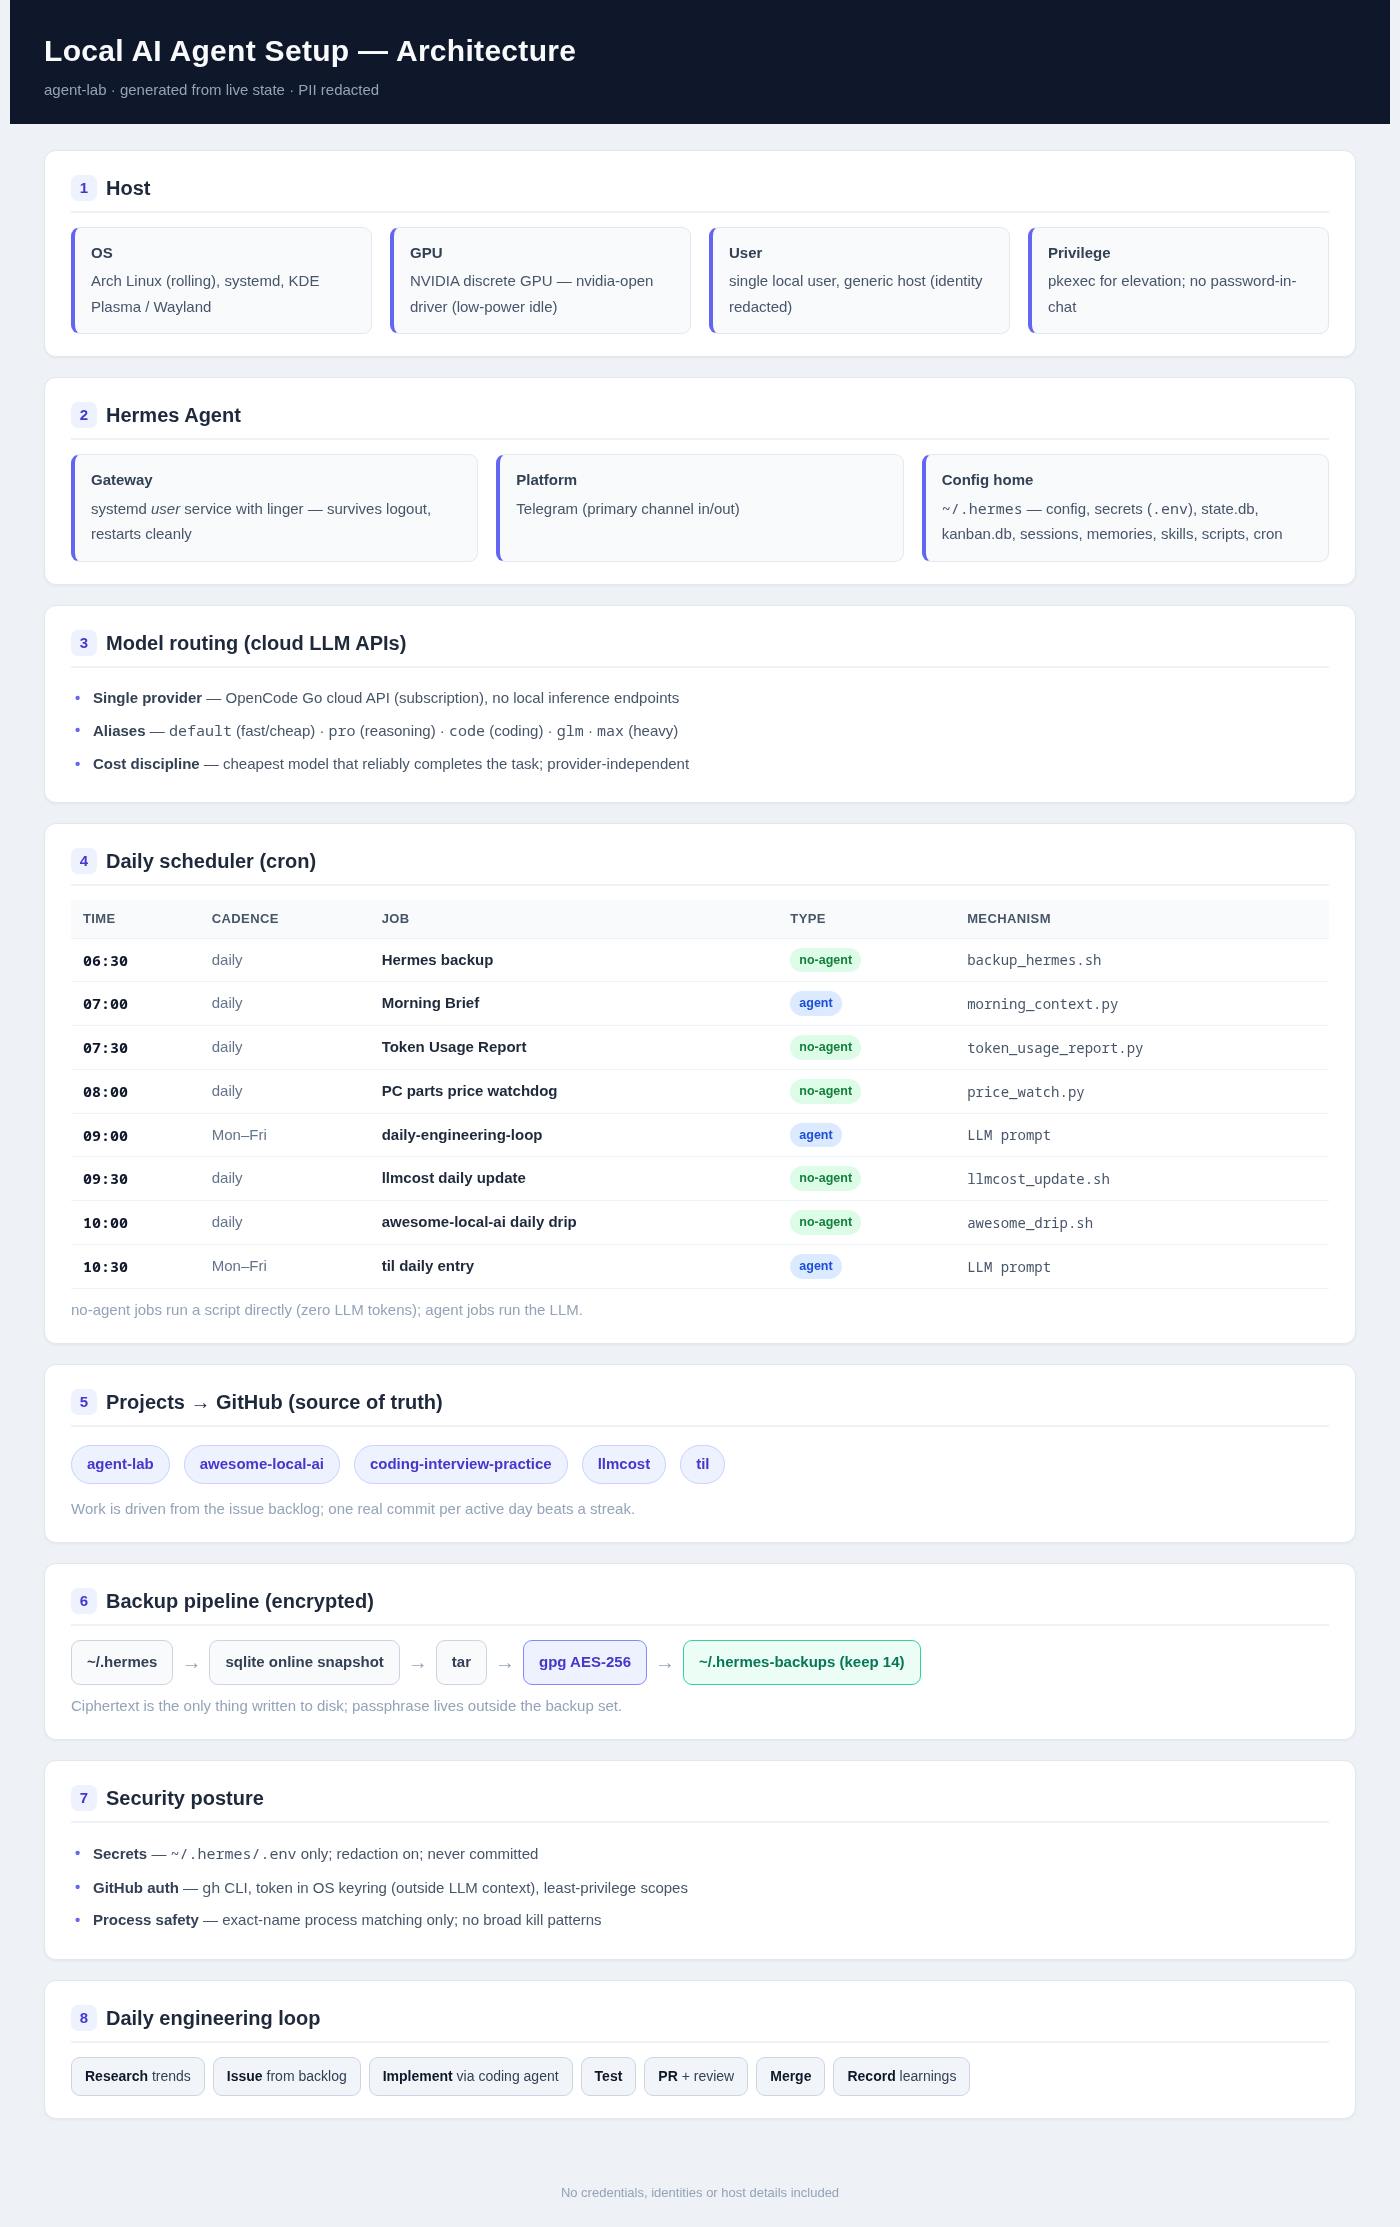
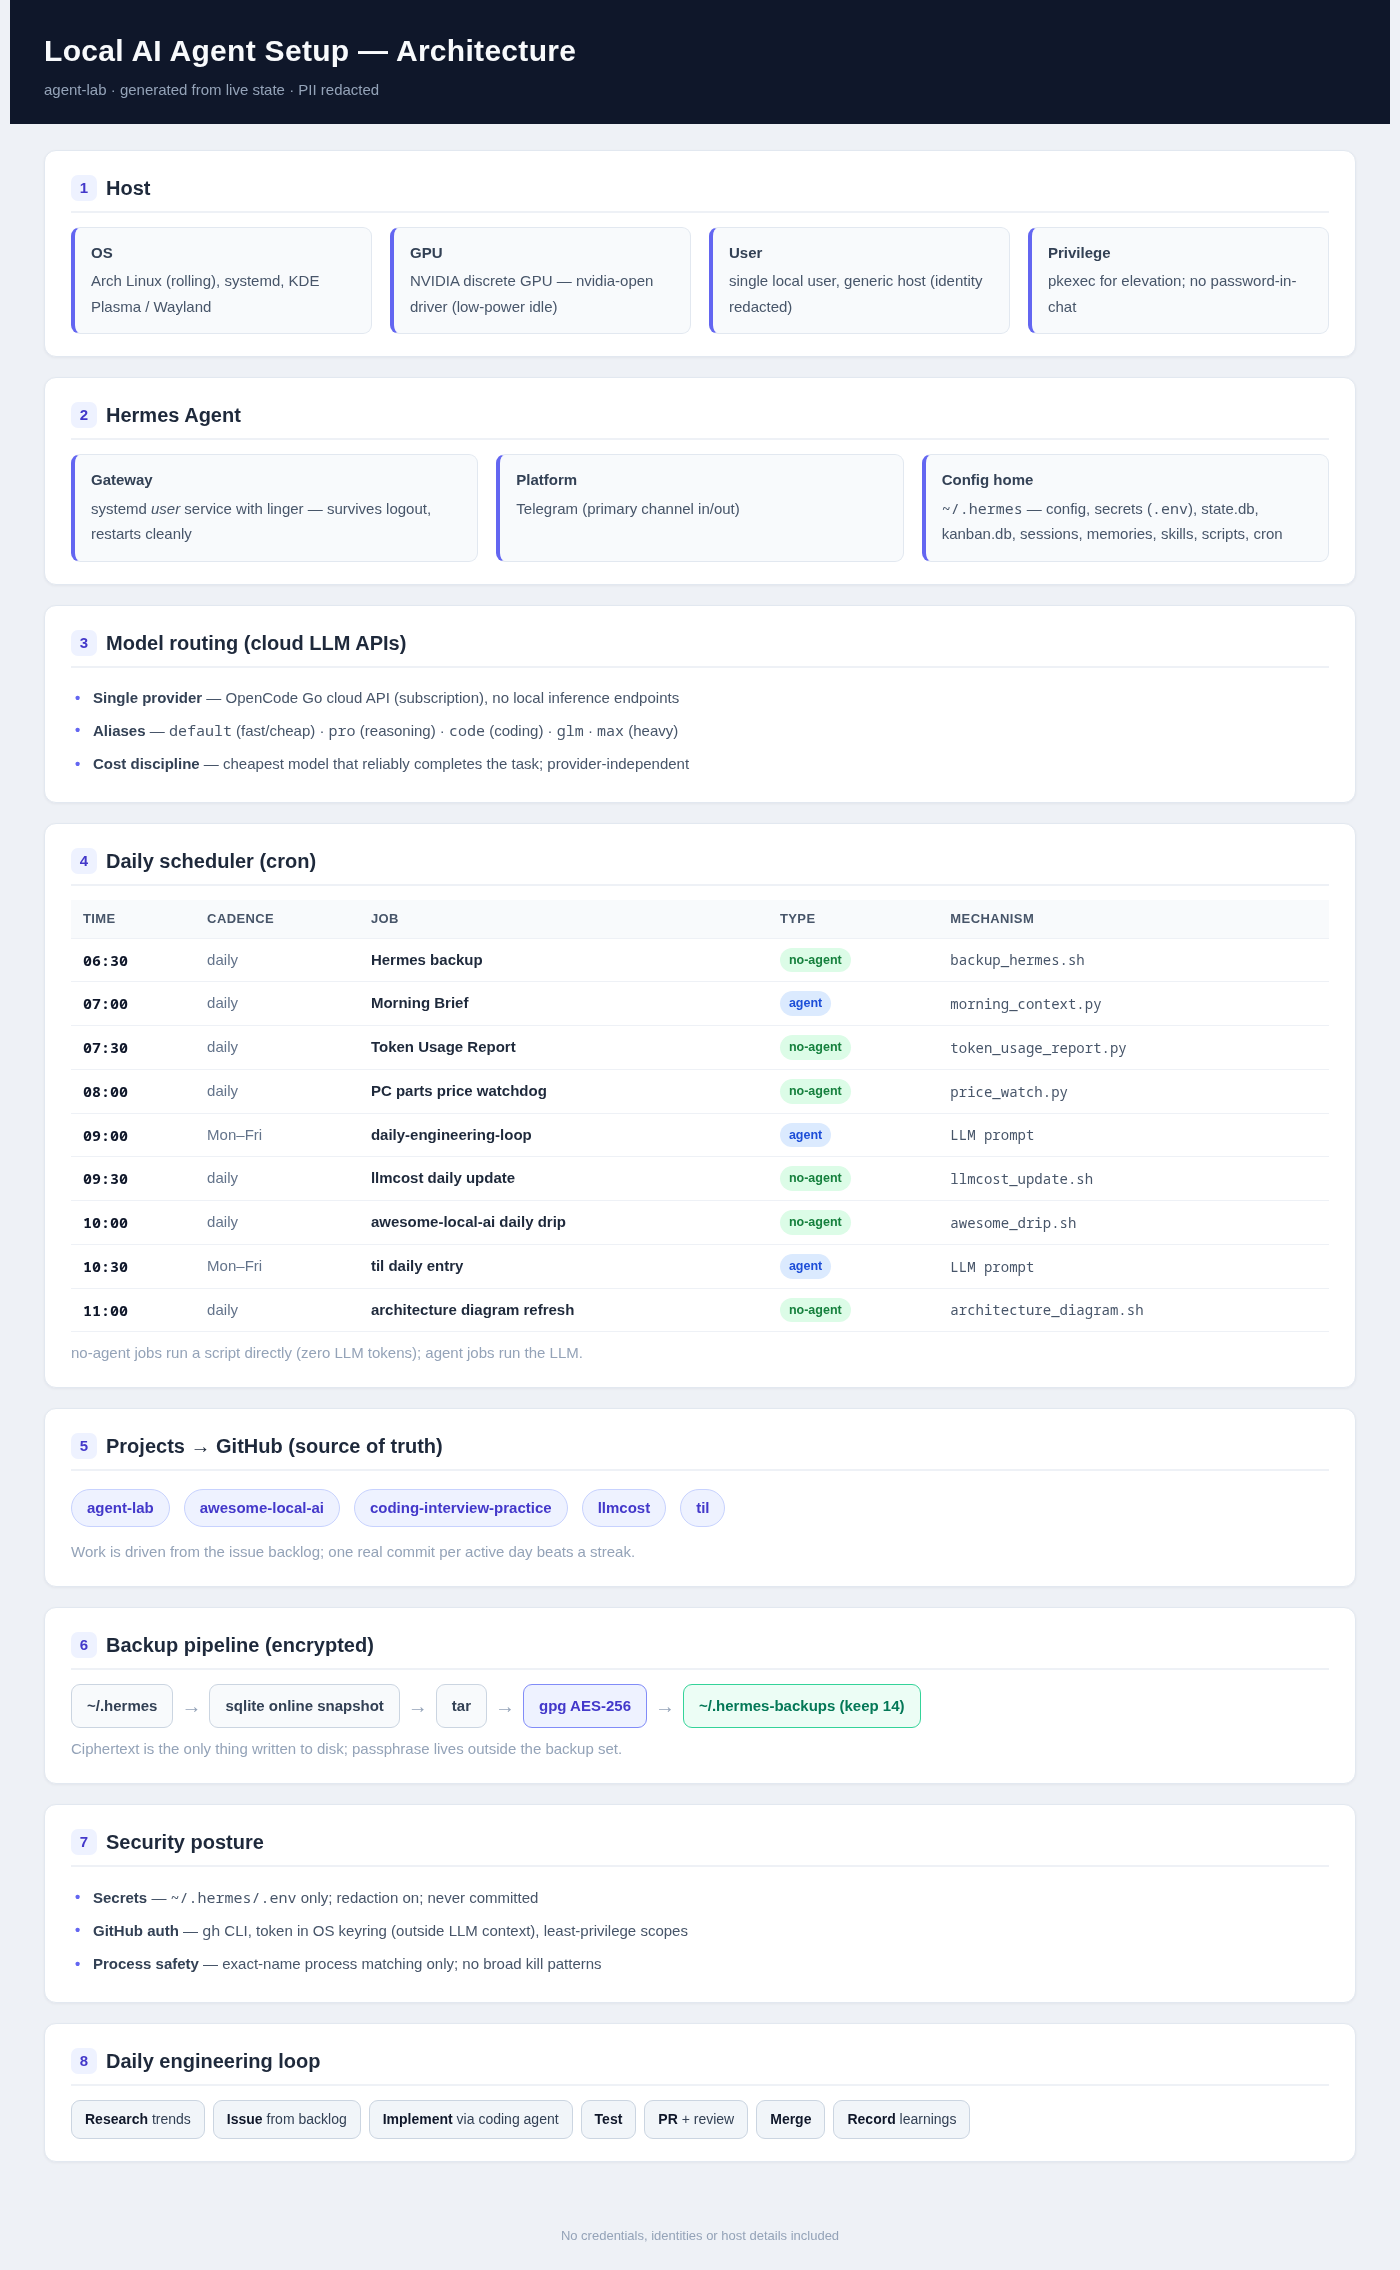
docs: refresh architecture diagram (auto)

diff --git a/assets/architecture.html b/assets/architecture.html
@@ -111,7 +111,7 @@
 
   <section>
     <h2><span class="num">4</span>Daily scheduler (cron)</h2>
-    <table><thead><tr><th>Time</th><th>Cadence</th><th>Job</th><th>Type</th><th>Mechanism</th></tr></thead><tbody><tr><td class='t'>06:30</td><td class='l'>daily</td><td class='n'>Hermes backup</td><td><span class='badge script' title='runs a script directly, zero LLM tokens'>no-agent</span></td><td class='m'>backup_hermes.sh</td></tr><tr><td class='t'>07:00</td><td class='l'>daily</td><td class='n'>Morning Brief</td><td><span class='badge agent' title='runs the LLM agent'>agent</span></td><td class='m'>morning_context.py</td></tr><tr><td class='t'>07:30</td><td class='l'>daily</td><td class='n'>Token Usage Report</td><td><span class='badge script' title='runs a script directly, zero LLM tokens'>no-agent</span></td><td class='m'>token_usage_report.py</td></tr><tr><td class='t'>08:00</td><td class='l'>daily</td><td class='n'>PC parts price watchdog</td><td><span class='badge script' title='runs a script directly, zero LLM tokens'>no-agent</span></td><td class='m'>price_watch.py</td></tr><tr><td class='t'>09:00</td><td class='l'>Mon–Fri</td><td class='n'>daily-engineering-loop</td><td><span class='badge agent' title='runs the LLM agent'>agent</span></td><td class='m'>LLM prompt</td></tr><tr><td class='t'>09:30</td><td class='l'>daily</td><td class='n'>llmcost daily update</td><td><span class='badge script' title='runs a script directly, zero LLM tokens'>no-agent</span></td><td class='m'>llmcost_update.sh</td></tr><tr><td class='t'>10:00</td><td class='l'>daily</td><td class='n'>awesome-local-ai daily drip</td><td><span class='badge script' title='runs a script directly, zero LLM tokens'>no-agent</span></td><td class='m'>awesome_drip.sh</td></tr><tr><td class='t'>10:30</td><td class='l'>Mon–Fri</td><td class='n'>til daily entry</td><td><span class='badge agent' title='runs the LLM agent'>agent</span></td><td class='m'>LLM prompt</td></tr></tbody></table>
+    <table><thead><tr><th>Time</th><th>Cadence</th><th>Job</th><th>Type</th><th>Mechanism</th></tr></thead><tbody><tr><td class='t'>06:30</td><td class='l'>daily</td><td class='n'>Hermes backup</td><td><span class='badge script' title='runs a script directly, zero LLM tokens'>no-agent</span></td><td class='m'>backup_hermes.sh</td></tr><tr><td class='t'>07:00</td><td class='l'>daily</td><td class='n'>Morning Brief</td><td><span class='badge agent' title='runs the LLM agent'>agent</span></td><td class='m'>morning_context.py</td></tr><tr><td class='t'>07:30</td><td class='l'>daily</td><td class='n'>Token Usage Report</td><td><span class='badge script' title='runs a script directly, zero LLM tokens'>no-agent</span></td><td class='m'>token_usage_report.py</td></tr><tr><td class='t'>08:00</td><td class='l'>daily</td><td class='n'>PC parts price watchdog</td><td><span class='badge script' title='runs a script directly, zero LLM tokens'>no-agent</span></td><td class='m'>price_watch.py</td></tr><tr><td class='t'>09:00</td><td class='l'>Mon–Fri</td><td class='n'>daily-engineering-loop</td><td><span class='badge agent' title='runs the LLM agent'>agent</span></td><td class='m'>LLM prompt</td></tr><tr><td class='t'>09:30</td><td class='l'>daily</td><td class='n'>llmcost daily update</td><td><span class='badge script' title='runs a script directly, zero LLM tokens'>no-agent</span></td><td class='m'>llmcost_update.sh</td></tr><tr><td class='t'>10:00</td><td class='l'>daily</td><td class='n'>awesome-local-ai daily drip</td><td><span class='badge script' title='runs a script directly, zero LLM tokens'>no-agent</span></td><td class='m'>awesome_drip.sh</td></tr><tr><td class='t'>10:30</td><td class='l'>Mon–Fri</td><td class='n'>til daily entry</td><td><span class='badge agent' title='runs the LLM agent'>agent</span></td><td class='m'>LLM prompt</td></tr><tr><td class='t'>11:00</td><td class='l'>daily</td><td class='n'>architecture diagram refresh</td><td><span class='badge script' title='runs a script directly, zero LLM tokens'>no-agent</span></td><td class='m'>architecture_diagram.sh</td></tr></tbody></table>
     <p class="muted" style="margin-top:10px">no-agent jobs run a script directly (zero LLM tokens); agent jobs run the LLM.</p>
   </section>
 
